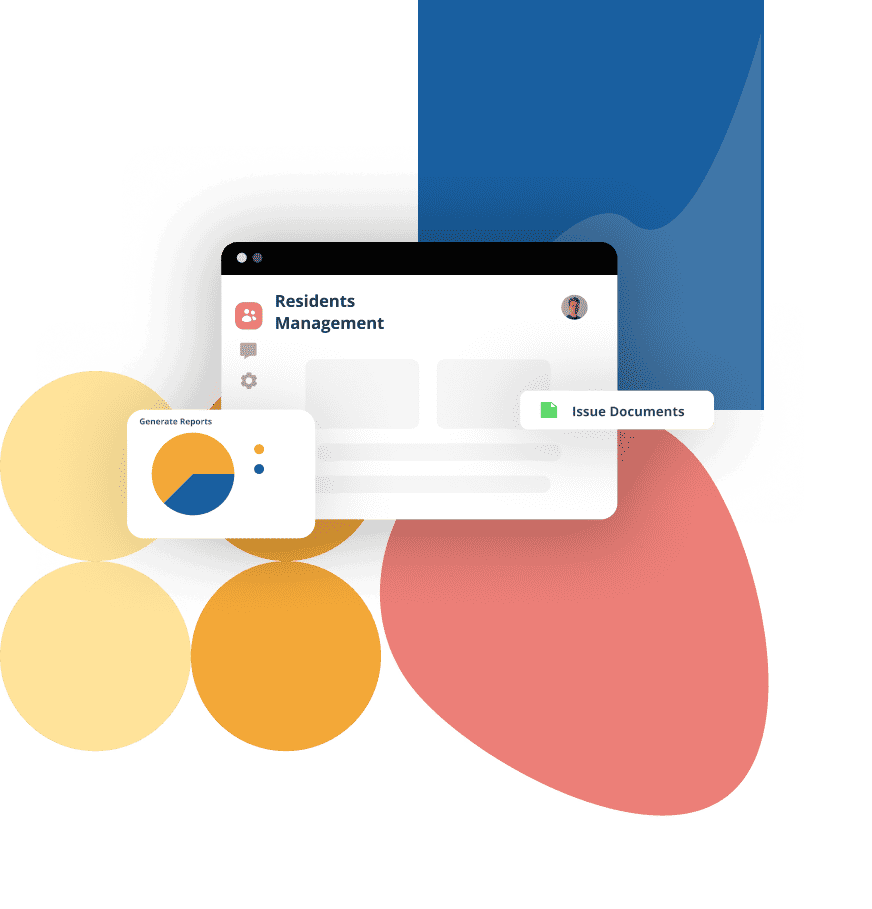
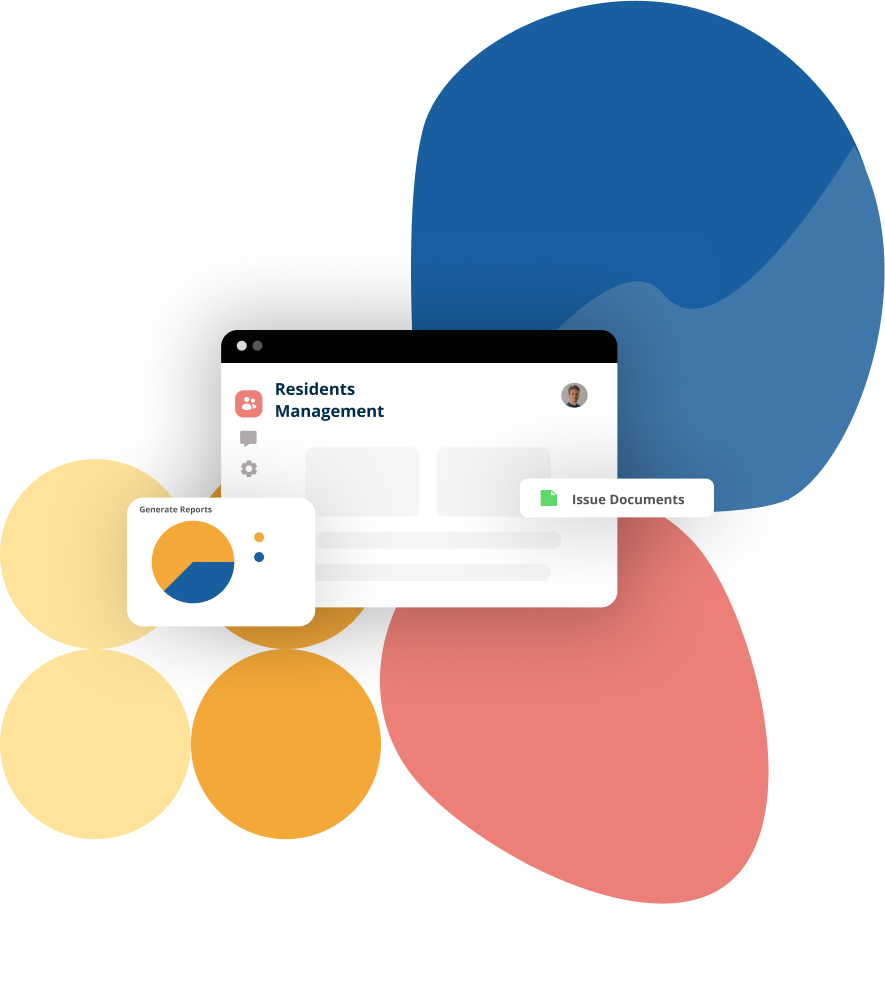
change login interface for phones

diff --git a/Styles/Login.css b/Styles/Login.css
@@ -29,6 +29,8 @@ body{
 }
 .login-right{
     width: 50%;
+    position: relative;
+    height: 500px;
 }
 .logo{
     width: 30px;
@@ -106,10 +108,6 @@ input, button{
 .button-white:hover{
     background: #e6e5e5;
 }
-.login-right{
-    position: relative;
-    height: 100%;
-}
 .error-container{
     width: 100vw;
     display: flex;
@@ -138,13 +136,13 @@ input, button{
 }
 .login-figure{
     width: 100vw;
-    max-width: 900px;
-    max-height: 900px;
+    max-width: 870px;
+    max-height: 950px;
     height: 100vw;
     position: absolute;
     background: url('../Images/login-background.png');
     background-size: 100% 100%;
-    bottom: -170px;
+    bottom: -220px;
     left: -100px;
 }
 .forgot-password{
@@ -192,14 +190,61 @@ input, button{
     }
 }
 @media (max-width: 700px){
+    .login-container{
+        padding: 50px 0 0 0;
+    }
     .login-title-container{
-        flex-direction: column;
+        width: 100%;
+        position: absolute;
+        justify-content: space-between;
+        padding: 0 20px;
+        height: 100px;
+        background: #195FA0;
+        top: 0;
+        left: 0;
+        gap: 40px;
+    }
+    .title{
+        font-weight: 700;
+        font-size: 15px;
+        line-height: 20px;
+        color: #FFFFFF;
     }
     .logo{
-        width: 90px;
-        height: 90px;
+        width: 70px;
+        height: 70px;
     }
     .login-left{
-        gap: 40px;
+        gap: 25px;
+        padding: 0 35px;
+    }
+    .greeting{
+        text-align: left;
+        font-weight: 700;
+        font-size: 30px;
+        color: #002C4B;
+        max-width: 320px;
+        width: 100%;
+    }
+    .label{
+        display: none;
+    }
+    .text-1{
+        border-radius: 2px;
+        box-shadow: none;
+        border: 1px solid #B4B4B4;
+        font-size: 16px;
+        max-width: none;
+        width: 100%;
+    }
+    .login-button{
+        border-radius: 2px;
+    }
+    .login-form{
+        max-width: 350px;
+        width: 100%;
+    }
+    .button-white{
+        background: #D1D1D1;
     }
 }

diff --git a/Styles/Dashboard.css b/Styles/Dashboard.css
@@ -333,3 +333,9 @@ canvas{
 .light-red{
   background: #F7E4E1;
 }
+@media (max-width: 1000px){
+
+}
+@media (max-width: 700px){
+
+}

diff --git a/Pages/Dashboard/Dashboard.php b/Pages/Dashboard/Dashboard.php
@@ -19,7 +19,7 @@ if (isset($_SESSION['userType']) && isset($_SESSION['username']) && ($_SESSION['
         href="https://fonts.googleapis.com/css2?family=Open+Sans:ital,wght@0,400;0,500;0,600;0,700;0,800;1,800&display=swap"
         rel="stylesheet">
     <link rel="stylesheet" type="text/css" href="../../Styles/Navbar.css">
-    <link rel="stylesheet" type="text/css" href="../../Styles/DashboarD.css">
+    <link rel="stylesheet" type="text/css" href="../../Styles/Dashboard.css">
     <link rel="stylesheet" type="text/css" href="../../Styles/Tab-title.css">
     <!-- a script to prevent the "confirm resubmission" alert -->
     <script>

diff --git a/Pages/Dashboard/Resident-Dashboard.php b/Pages/Dashboard/Resident-Dashboard.php
@@ -19,7 +19,7 @@ if (isset($_SESSION['userType']) && isset($_SESSION['username']) && $_SESSION['u
         href="https://fonts.googleapis.com/css2?family=Open+Sans:ital,wght@0,400;0,500;0,600;0,700;0,800;1,800&display=swap"
         rel="stylesheet">
     <link rel="stylesheet" type="text/css" href="../../Styles/Navbar.css">
-    <link rel="stylesheet" type="text/css" href="../../Styles/DashboarD.css">
+    <link rel="stylesheet" type="text/css" href="../../Styles/Dashboard.css">
     <link rel="stylesheet" type="text/css" href="../../Styles/Tab-title.css">
     <!-- a script to prevent the "confirm resubmission" alert -->
     <script>

diff --git a/index.php b/index.php
@@ -41,7 +41,7 @@ if (isset($_SESSION['userType']) && isset($_SESSION['username'])) {
         <div class="login-left">
             <div class="login-title-container">
                 <img class="logo" src="Images/logo.png" alt="">
-                <h1 class="title">Sapang Management Information System</h1>
+                <h1 class="title">Management Information System for Barangay Sapang</h1>
             </div>
             <h2 class="greeting">WELCOME KABARANGAY!</h2>
             <form class="login-form" action="Functions/login.php" method="POST">
